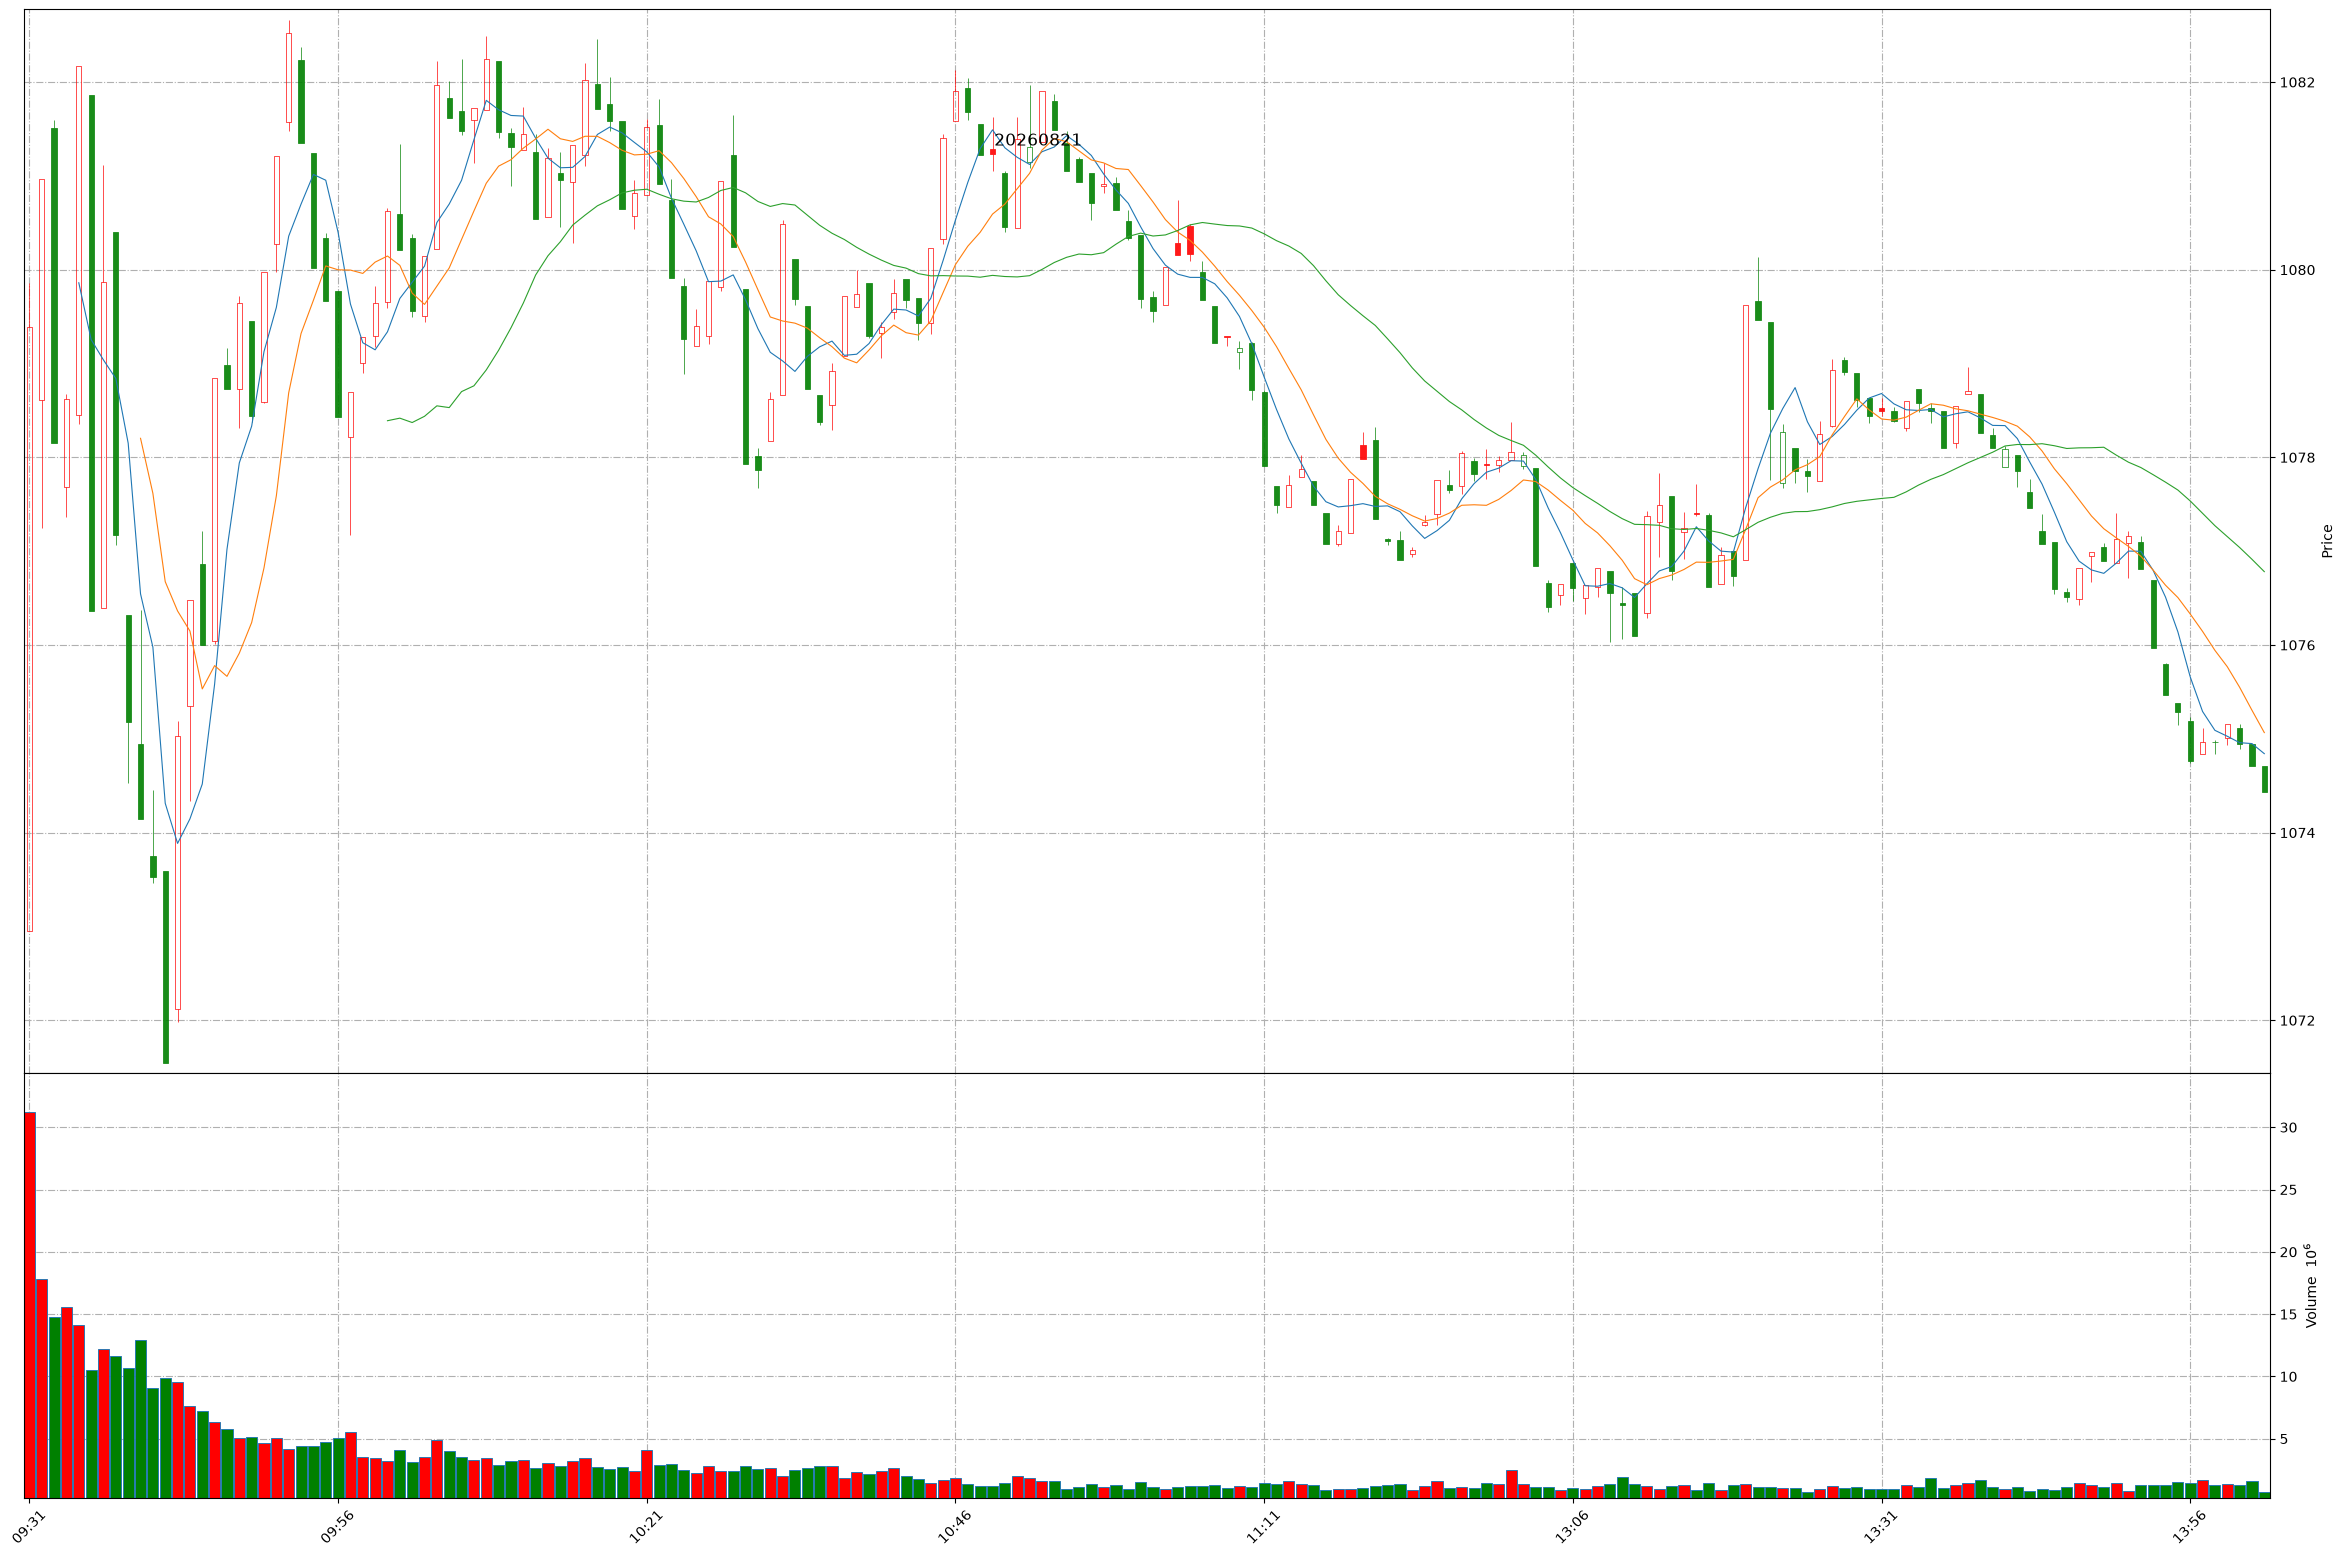
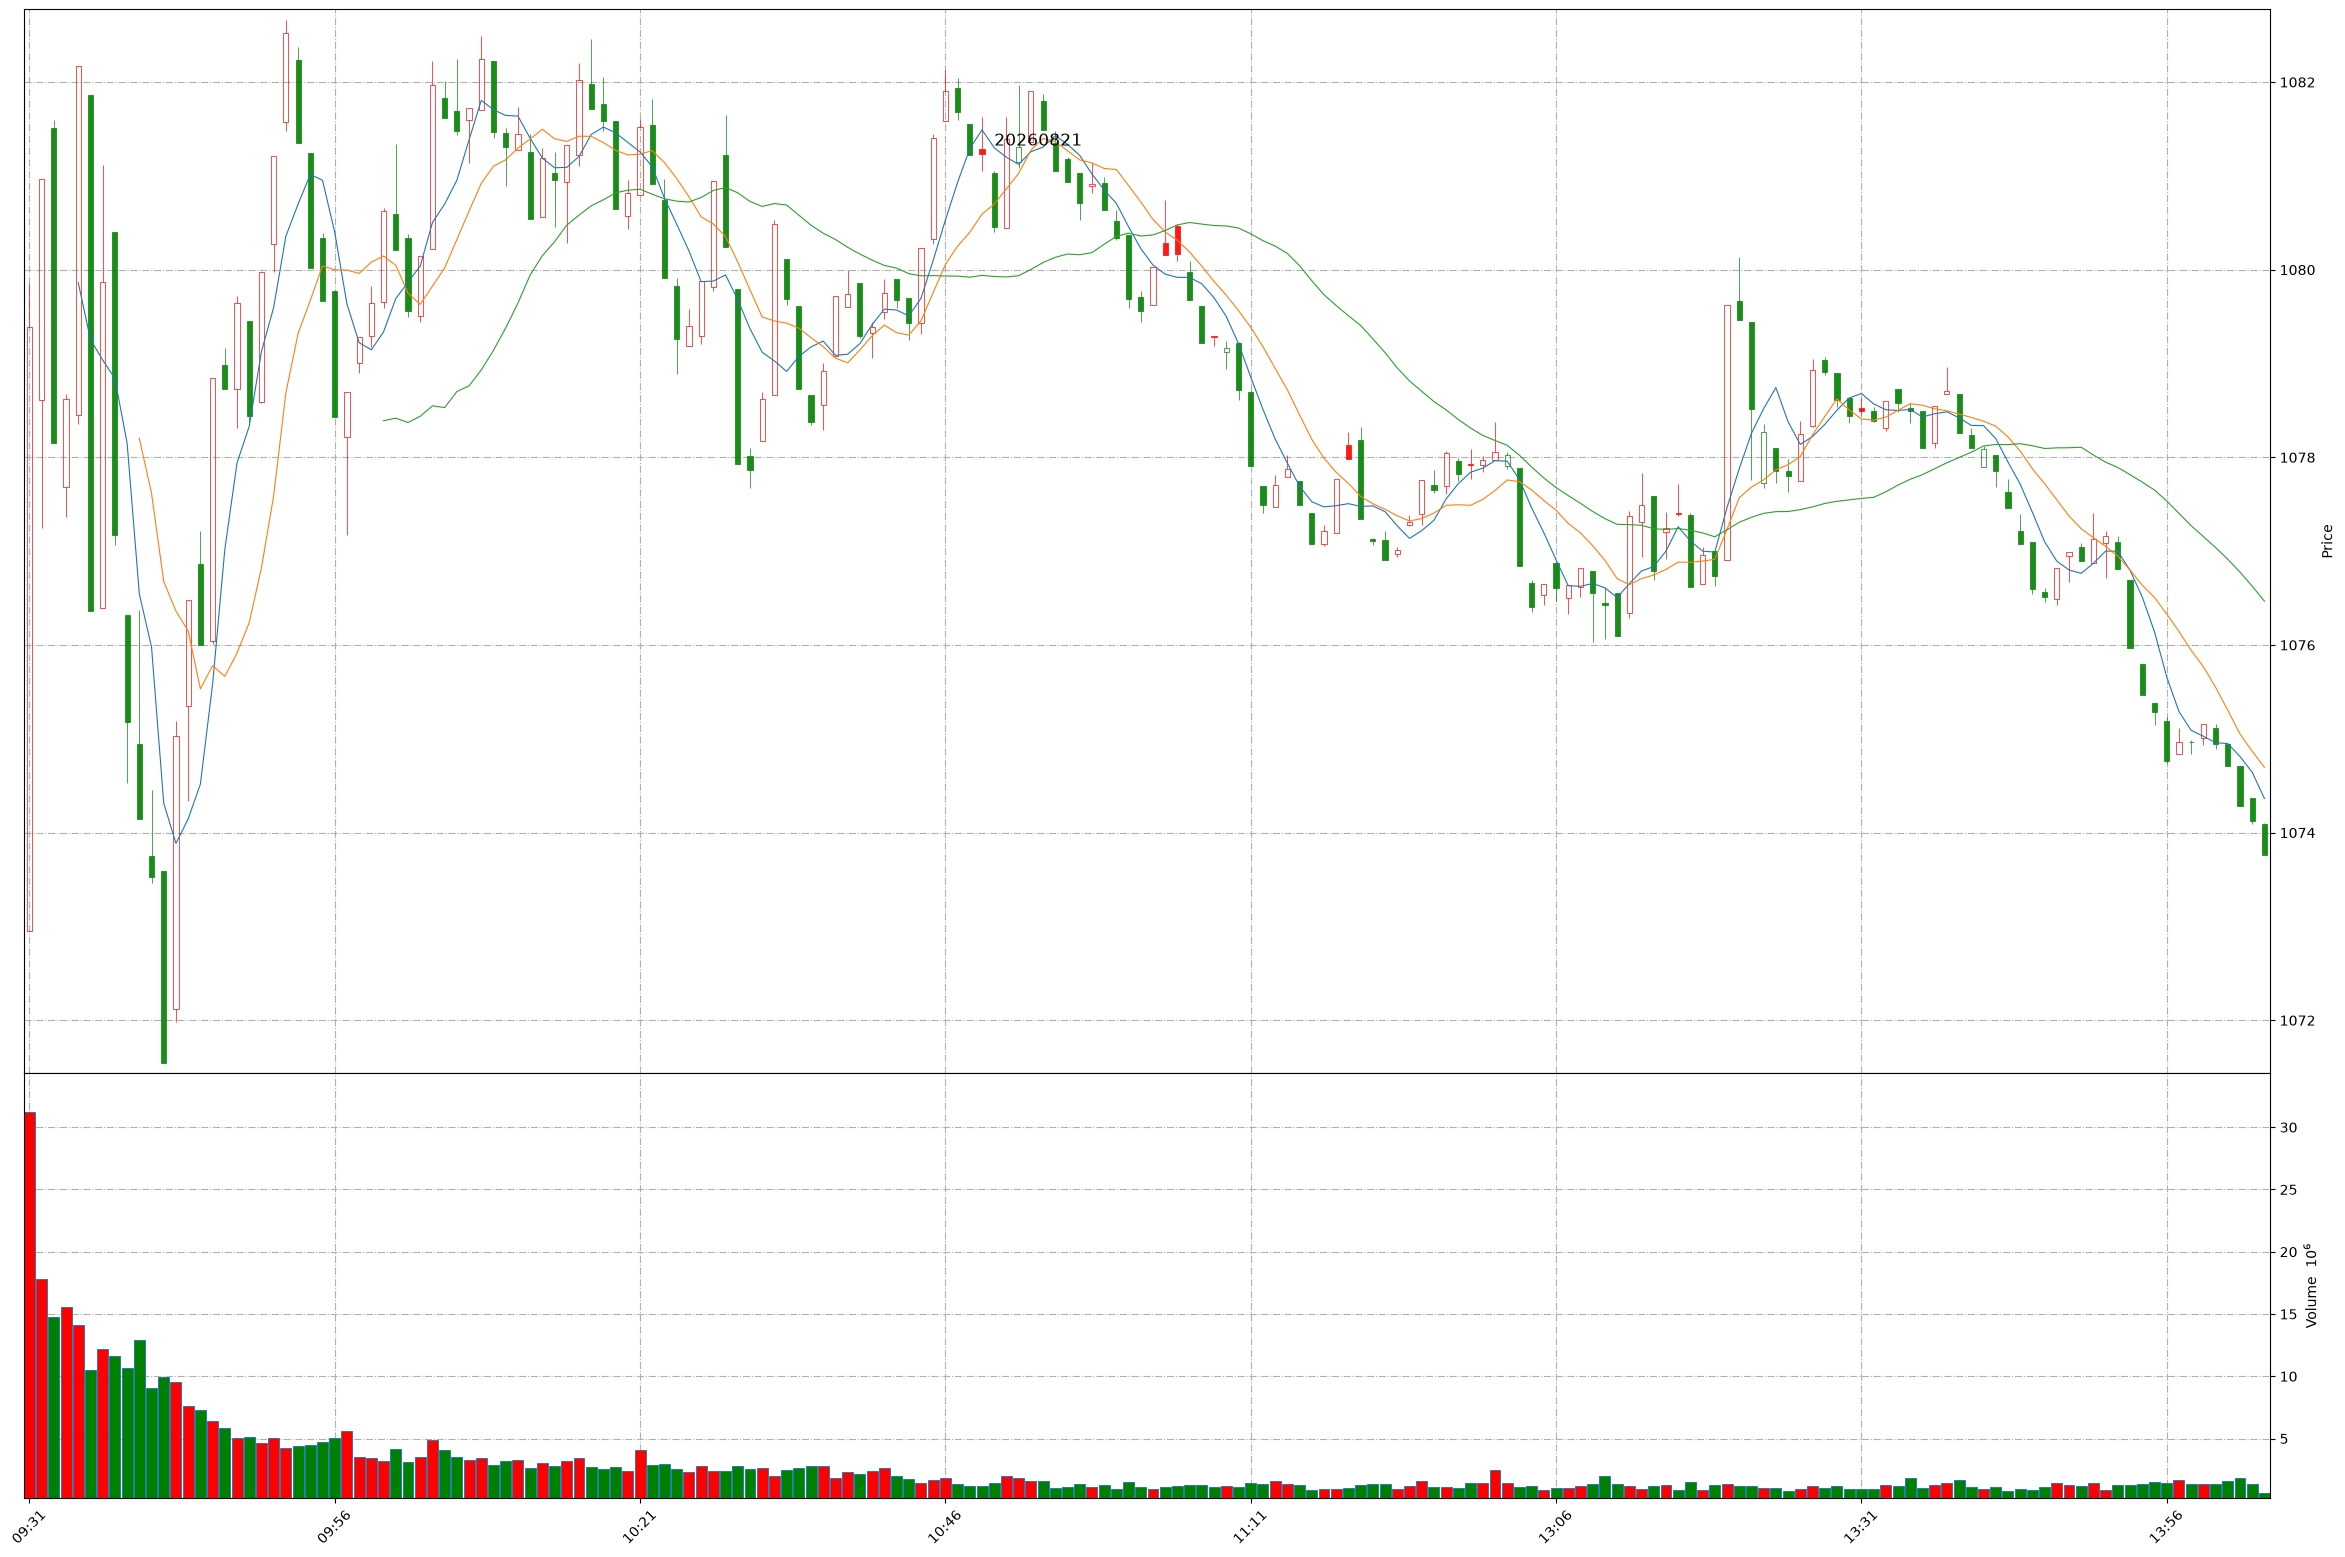
Github action update at 2026-08-21 14:03:34.

diff --git a/README.md b/README.md
@@ -1,11 +1,11 @@
 
 # Daily-A-share-market-quotes 每日 A 股指数（5min 更新）- 20260821
 
-### 上证指数 20260821 14:1
+### 上证指数 20260821 14:3
 ![](./fig/2026/8/20260821-sh000001.png)
 
-### 深证成指 20260821 14:1
+### 深证成指 20260821 14:3
 ![](./fig/2026/8/20260821-sz399001.png)
 
-### 北证50 20260821 14:1
+### 北证50 20260821 14:3
 ![](./fig/2026/8/20260821-bj899050.png)
